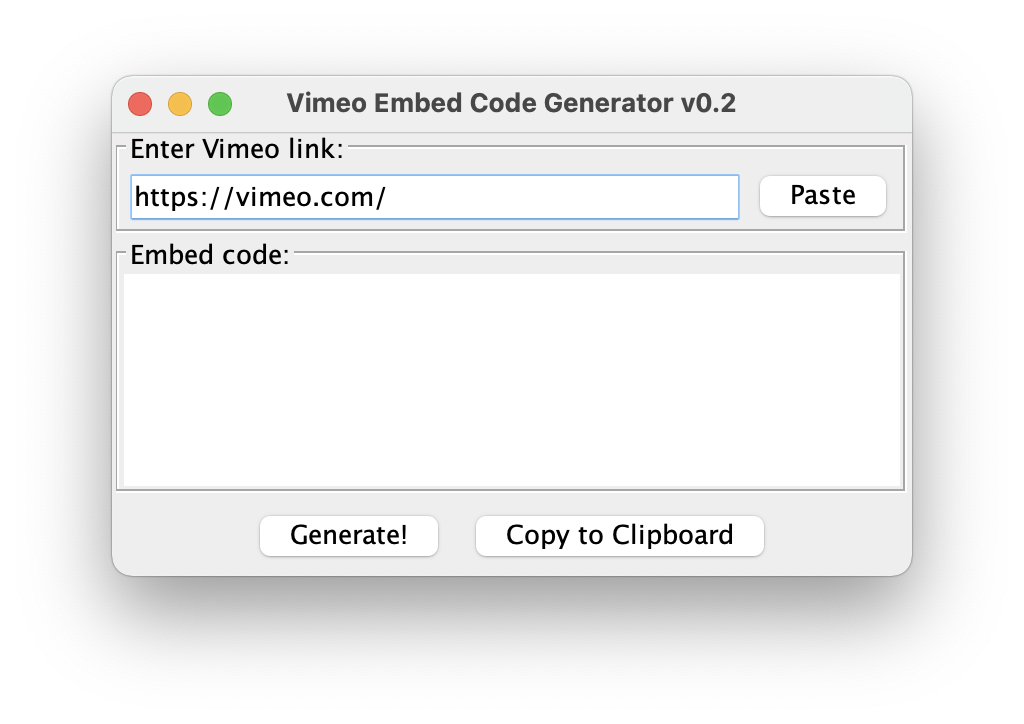
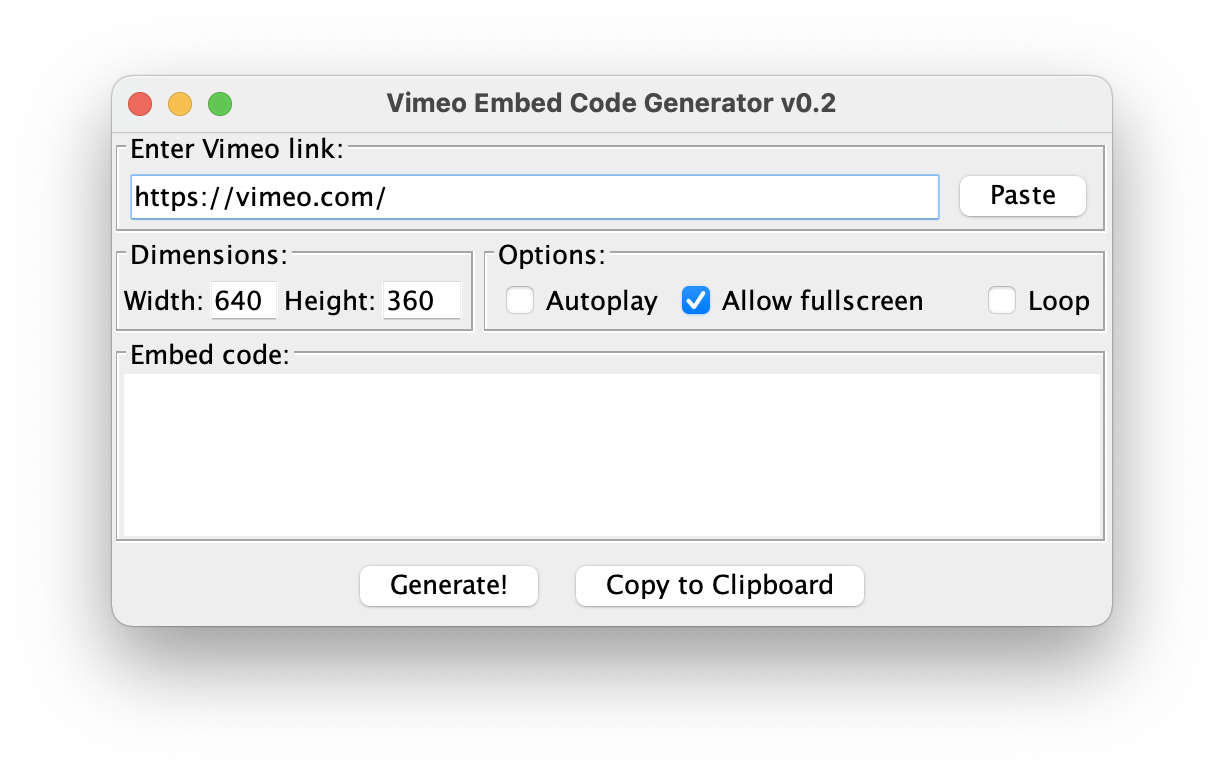
updated v0.2

Changed region(s): [[0.0938, 0.0912, 0.9062, 0.8204]]

diff --git a/src/GenerateEmbedCode.java b/src/GenerateEmbedCode.java
@@ -1,7 +1,11 @@
 import java.awt.BorderLayout;
 import java.awt.Dimension;
 import java.awt.GridLayout;
+import java.awt.event.ItemEvent;
+import java.awt.event.ItemListener;
+
 import javax.swing.JButton;
+import javax.swing.JCheckBox;
 import javax.swing.JFrame;
 import javax.swing.JLabel;
 import javax.swing.JOptionPane;
@@ -41,23 +45,37 @@ import javax.swing.border.TitledBorder;
 public class GenerateEmbedCode extends JFrame {
 
 	public static final double VERSION = 0.2;
-	
+
 	public static GenerateEmbedCode gui;
-	public static JTextField url;
+	public static JTextField url, width, height;
+	public static JCheckBox fullscreen, autoplay, loop;
 	public static JTextArea embed;
+
+	public static boolean autoplay_bool, loop_bool, fullscreen_bool;
 
 	// Constructor
 	public GenerateEmbedCode() {
 		setTitle("Vimeo Embed Code Generator v" + VERSION);
-		setSize(new Dimension(400, 250));
+		setSize(new Dimension(500, 275));
 		setDefaultCloseOperation(JFrame.EXIT_ON_CLOSE);
 
-		add(vimeoLinkRow(), BorderLayout.NORTH);
+		add(firstRow(), BorderLayout.NORTH);
 		add(embedCodeRow(), BorderLayout.CENTER);
 		add(buttonRow(), BorderLayout.SOUTH);
 	}
 
 	// JPanels
+	public JPanel firstRow() {
+		JPanel panel = new JPanel();
+
+		panel.setLayout(new BorderLayout());
+
+		panel.add(vimeoLinkRow(), BorderLayout.NORTH);
+		panel.add(customizationRow(), BorderLayout.SOUTH);
+
+		return panel;
+	}
+
 	public JPanel vimeoLinkRow() {
 		JPanel panel = new JPanel();
 
@@ -67,7 +85,7 @@ public class GenerateEmbedCode extends JFrame {
 		panel.setBorder(title);
 
 		url = new JTextField("https://vimeo.com/");
-		
+
 		JButton paste = new JButton("Paste");
 		paste.addActionListener(new PasteListener());
 
@@ -76,6 +94,108 @@ public class GenerateEmbedCode extends JFrame {
 
 		return panel;
 	}
+
+	public JPanel customizationRow() {
+		JPanel panel = new JPanel();
+
+		panel.setLayout(new BorderLayout());
+		panel.add(customLeftSection(), BorderLayout.WEST);
+		panel.add(customRightSection(), BorderLayout.CENTER);
+
+		return panel;
+	}
+
+	public JPanel customLeftSection() {
+		JPanel panel = new JPanel();
+
+		TitledBorder title = new TitledBorder(new EtchedBorder(), "Dimensions:");
+		panel.setBorder(title);
+
+		panel.setLayout(new BorderLayout());
+
+		panel.add(widthSection(), BorderLayout.WEST);
+		panel.add(heightSection(), BorderLayout.EAST);
+
+		return panel;
+	}
+
+	public JPanel widthSection() {
+		JPanel panel = new JPanel();
+
+		panel.setLayout(new GridLayout(1, 1));
+
+		JLabel widthLabel = new JLabel("Width:");
+		width = new JTextField("640");
+
+		panel.add(widthLabel);
+		panel.add(width);
+
+		return panel;
+	}
+
+	public JPanel heightSection() {
+		JPanel panel = new JPanel();
+
+		panel.setLayout(new GridLayout(1, 1));
+
+		JLabel heightLabel = new JLabel("Height:");
+		height = new JTextField("360");
+
+		panel.add(heightLabel);
+		panel.add(height);
+
+		return panel;
+	}
+
+	public JPanel customRightSection() {
+		JPanel panel = new JPanel();
+
+		TitledBorder title = new TitledBorder(new EtchedBorder(), "Options:");
+		panel.setBorder(title);
+
+		panel.setLayout(new BorderLayout());
+
+		fullscreen = new JCheckBox("Allow fullscreen", true); fullscreen_bool = true;
+		fullscreen.addItemListener(new ItemListener() {
+			public void itemStateChanged(ItemEvent e) {         
+				if(e.getStateChange()==1) {
+					fullscreen_bool = true;
+				}else {
+					fullscreen_bool = false;
+				}
+			} 
+		});
+
+		autoplay = new JCheckBox("Autoplay", false); autoplay_bool = false;
+		autoplay.addItemListener(new ItemListener() {
+			public void itemStateChanged(ItemEvent e) {         
+				if(e.getStateChange()==1) {
+					autoplay_bool = true;
+				}else {
+					autoplay_bool = false;
+				}
+			} 
+		});
+		
+		loop = new JCheckBox("Loop", false); loop_bool = false;
+		loop.addItemListener(new ItemListener() {
+			public void itemStateChanged(ItemEvent e) {         
+				if(e.getStateChange()==1) {
+					loop_bool = true;
+				}else {
+					loop_bool = false;
+				}
+			} 
+		});
+
+		panel.add(fullscreen, BorderLayout.CENTER);
+		panel.add(autoplay, BorderLayout.WEST);
+		panel.add(loop, BorderLayout.EAST);
+
+
+		return panel;
+	}
+
 
 	public JPanel embedCodeRow() {
 		JPanel panel = new JPanel();
@@ -151,14 +271,50 @@ public class GenerateEmbedCode extends JFrame {
 		return videoID;
 	}
 
-	public static String generateEmbed(String videoID) {
+	public static String generateEmbed(String videoID, int width, int height, boolean autoplay, boolean loop, boolean fullscreen) {
 		if (videoID.equals("")) {
 			return "";
 		} else {
-			String embedCode = "<iframe src=\"https://player.vimeo.com/video/" + videoID
-					+ "\" width=\"640\" height=\"360\" frameborder=\"0\" allow=\"autoplay; fullscreen\" allowfullscreen></iframe>";
+			String embedCode = "<iframe src=\"https://player.vimeo.com/video/" + videoID;
+
+			// autoplay
+			if(autoplay) {
+				embedCode += "?autoplay=1";
+			}
+
+			// loop (alone)
+			if(loop && !autoplay) {
+				embedCode += "?loop=1";
+			}
+			
+			// loop and autoplay
+			if(loop && autoplay) {
+				embedCode += "&loop=1";
+			}
+
+
+			// width, height, etc
+			embedCode += "\" width=\"" +  width + "\" height=\"" + height + "\" frameborder=\"0\" allow=\"autoplay;";
+
+			// fullscreen 1
+			if(fullscreen) {
+				embedCode += " fullscreen;";
+			}
+
+			// pic-in-pic
+			embedCode += " picture-in-picture\"";
+
+			// fullscreen 2
+			if(fullscreen) {
+				embedCode += " allowfullscreen";
+			}
+
+			// close tag
+			embedCode += "></iframe>";
+
 			return embedCode;
 		}
+
 	}
 
 	// main
@@ -172,7 +328,7 @@ public class GenerateEmbedCode extends JFrame {
 		JPanel panel = new JPanel();
 		panel.setLayout(new GridLayout(0, 1));
 
-		JLabel line1 = new JLabel("This program was designed for the Trefny");
+		JLabel line1 = new JLabel("This tool was designed for the Trefny");
 		JLabel line2 = new JLabel("Center at the Colorado School of Mines.");
 		line1.setHorizontalAlignment(SwingConstants.CENTER);
 		line2.setHorizontalAlignment(SwingConstants.CENTER);

diff --git a/src/GenerateListener.java b/src/GenerateListener.java
@@ -30,10 +30,16 @@ public class GenerateListener implements ActionListener {
 
 	@Override
 	public void actionPerformed(ActionEvent e) {
+		int width, height;
+		
 		String text = GenerateEmbedCode.url.getText();
 		
 		String videoID = GenerateEmbedCode.processURL(text);
-		String embedCode = GenerateEmbedCode.generateEmbed(videoID);
+		width = Integer.parseInt(GenerateEmbedCode.width.getText());
+		height = Integer.parseInt(GenerateEmbedCode.height.getText());
+		
+		String embedCode = GenerateEmbedCode.generateEmbed(videoID, width, height, GenerateEmbedCode.autoplay_bool,
+				GenerateEmbedCode.loop_bool, GenerateEmbedCode.fullscreen_bool);
 		
 		GenerateEmbedCode.embed.setText(embedCode);
 		GenerateEmbedCode.embed.selectAll();

diff --git a/README.md b/README.md
@@ -27,10 +27,13 @@ This program was developed for staff and faculty at the Colorado School of Mines
 ## License 
 * see [LICENSE](https://github.com/calebfarnie/VimeoEmbedCodeGenerator/blob/main/LICENSE.md) file
 
-## Version 
-* Version 0.1 - initial version.
+## Version Changelog
+* Version 0.1
+    * Initial version
 * Version 0.2
-    * Added 'paste' functionality for Vimeo link
+    * Added 'paste' functionality for Vimeo URL
+    * Added custom width and height functionality
+    * Added options for 'allow fullscreen,' 'autoplay,' and 'loop.'
 
 ## Contact
 #### Developer
